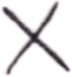
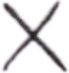
New settings

diff --git a/styles/index.css b/styles/index.css
@@ -689,37 +689,26 @@ img.comma {
 #settings #settings-x {
   cursor: pointer;
   top: 2rem;
-  right: 1.25rem;
-  width: 1.5rem;
-  height: 1.5rem;
+  right: 2rem;
+  width: 1rem;
+  height: 1rem;
   display: flex;
   justify-content: center;
   align-items: center;
   background-color: transparent;
   border: none;
+  padding: 0;
 }
 
-#settings #settings-x > * {
-  --scalage: 0.15;
+#settings #settings-x img {
   position: absolute;
-  height: 1px;
-  width: 1.3rem;
-  background-color: black;
-  border-radius: 100%;
-  clip-path: ellipse(50% 20% at 50% 50%);
-}
-
-#settings #settings-x > .left {
-  transform: rotate(45deg);
-}
-
-#settings #settings-x > .right {
-  transform: rotate(-45deg);
+  width: 100%;
+  object-fit: contain;
 }
 
 #settings .content {
     margin-top: 0.5rem;
-    padding: 2.5rem;
+    padding: 2rem;
     padding-top: 2.75rem;
     width: 100%;
 }

diff --git a/index.html b/index.html
@@ -96,8 +96,7 @@
       <img src="/images/down-arrow.png" alt="Open Settings">
     </button>
     <button id="settings-x" style="position: absolute; z-index: 1">
-      <div class="left"></div>
-      <div class="right"></div>
+      <img src="/images/x.png" alt="Close Settings">
     </button>
     <div class="content" style="position: relative">
       <div class='light'>
